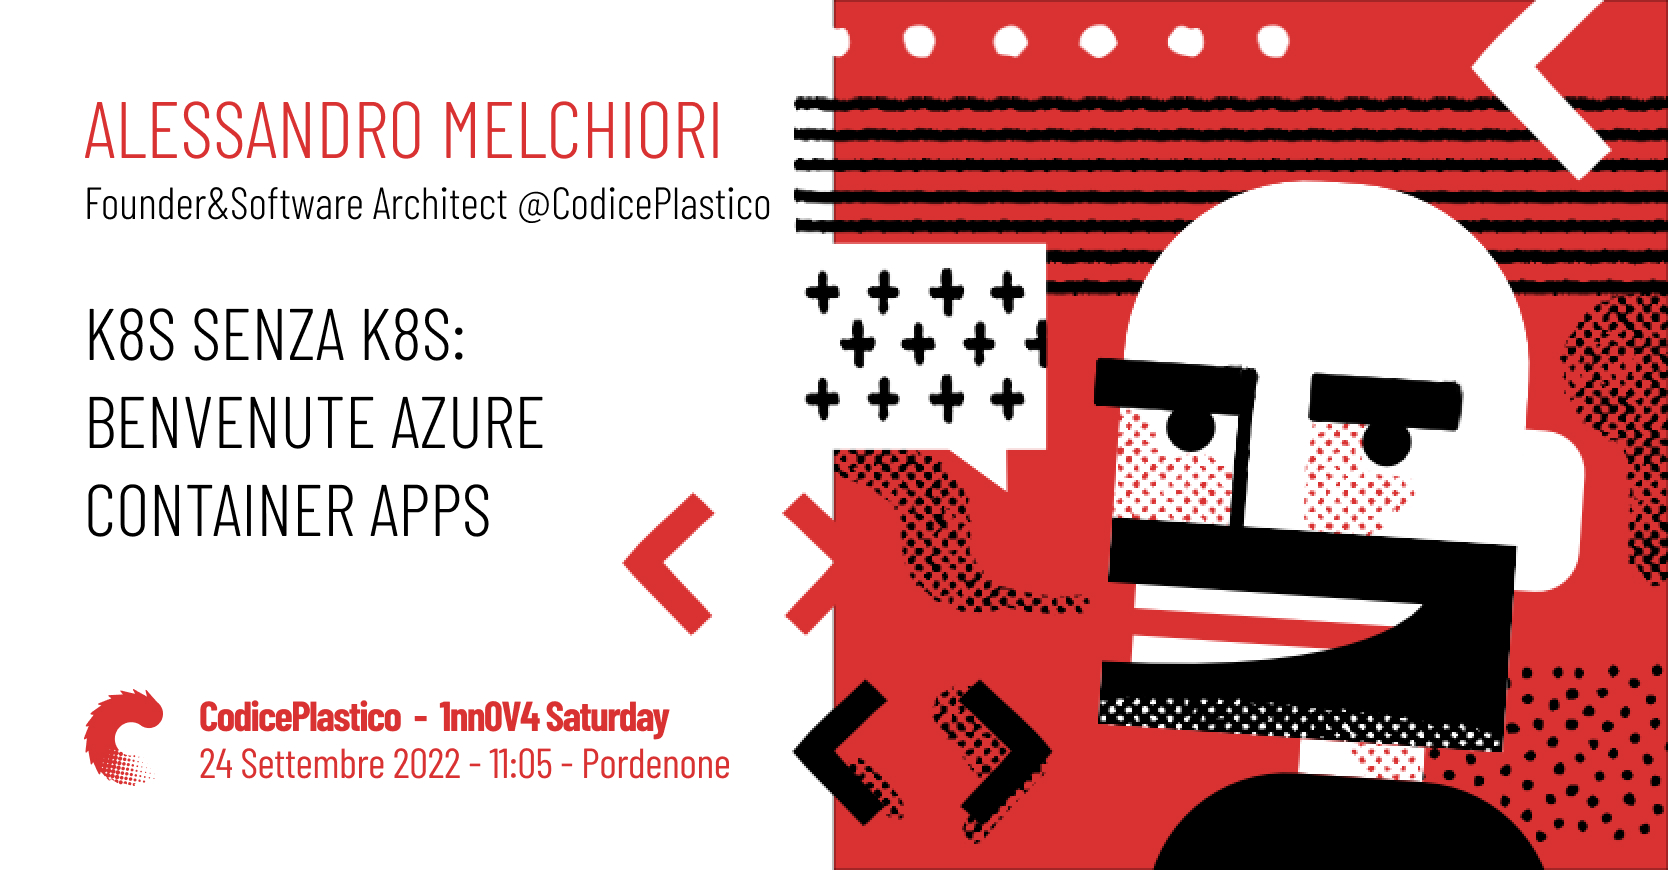
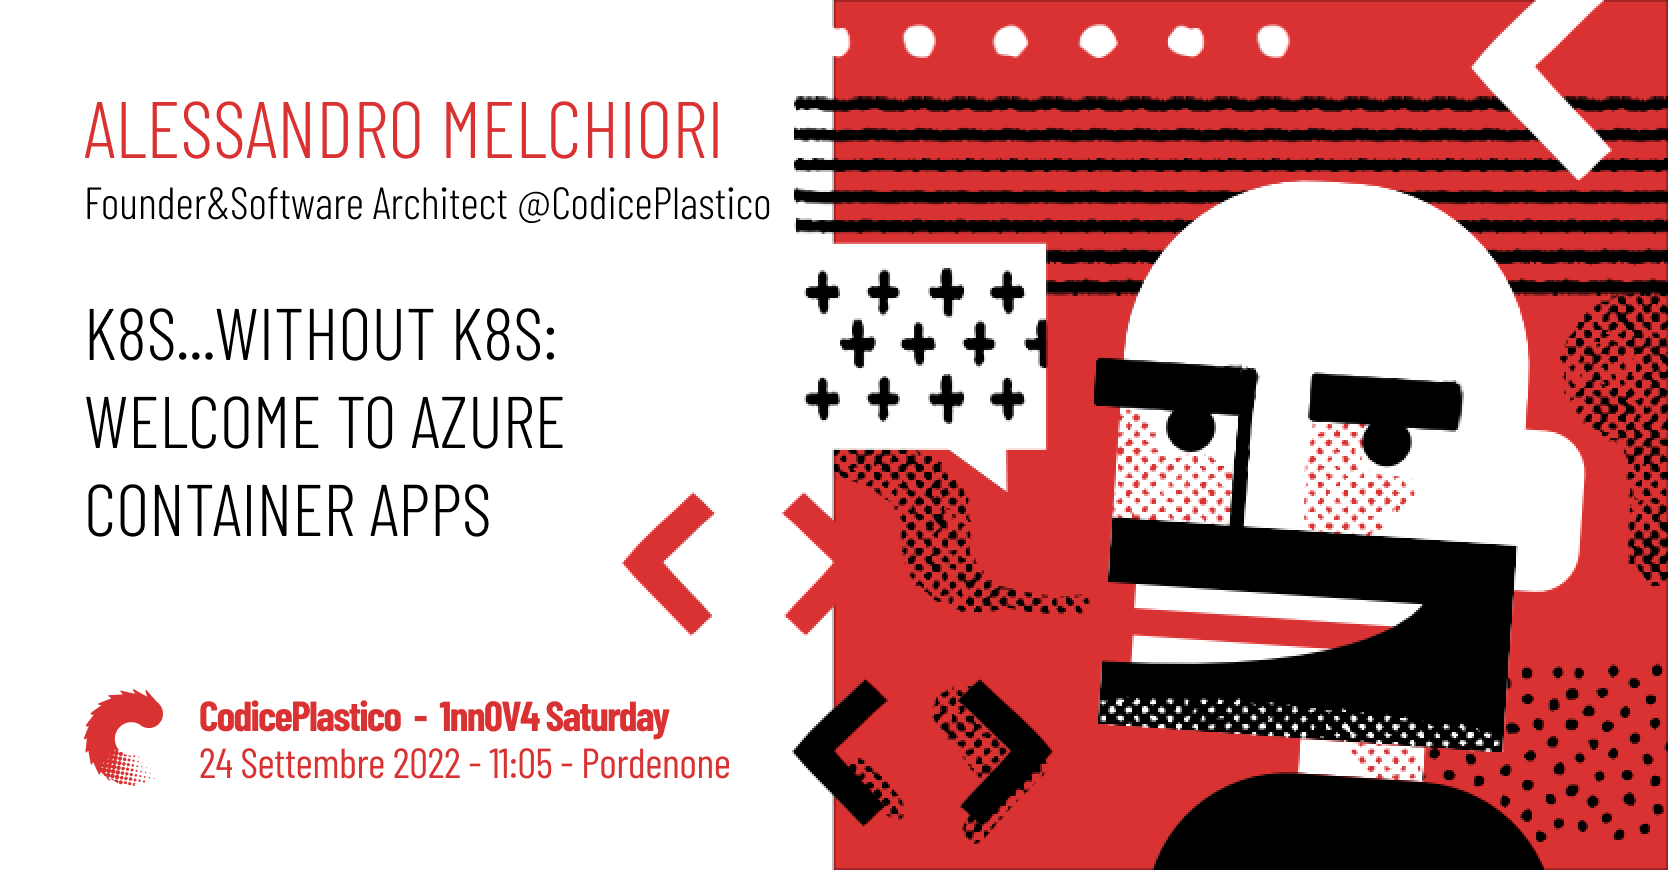
eventi

Changed region(s): [[0.0312, 0.3414, 0.3429, 0.5276]]

diff --git a/_events/20220924-ks8-innova.md b/_events/20220924-ks8-innova.md
@@ -1,7 +1,7 @@
 ---
 layout: event
 title: "1nn0va Saturday 2022"
-talk-title: 'K8s senza K8s:benvenute AzureContainer Apps'
+talk-title: 'K8s...without K8s: welcome to Azure Container Apps'
 event-date-start: 2022-09-24 11:05:00
 talk-info-track: 'Aula S8'
 location: Consorzio Universitario di Pordenone
